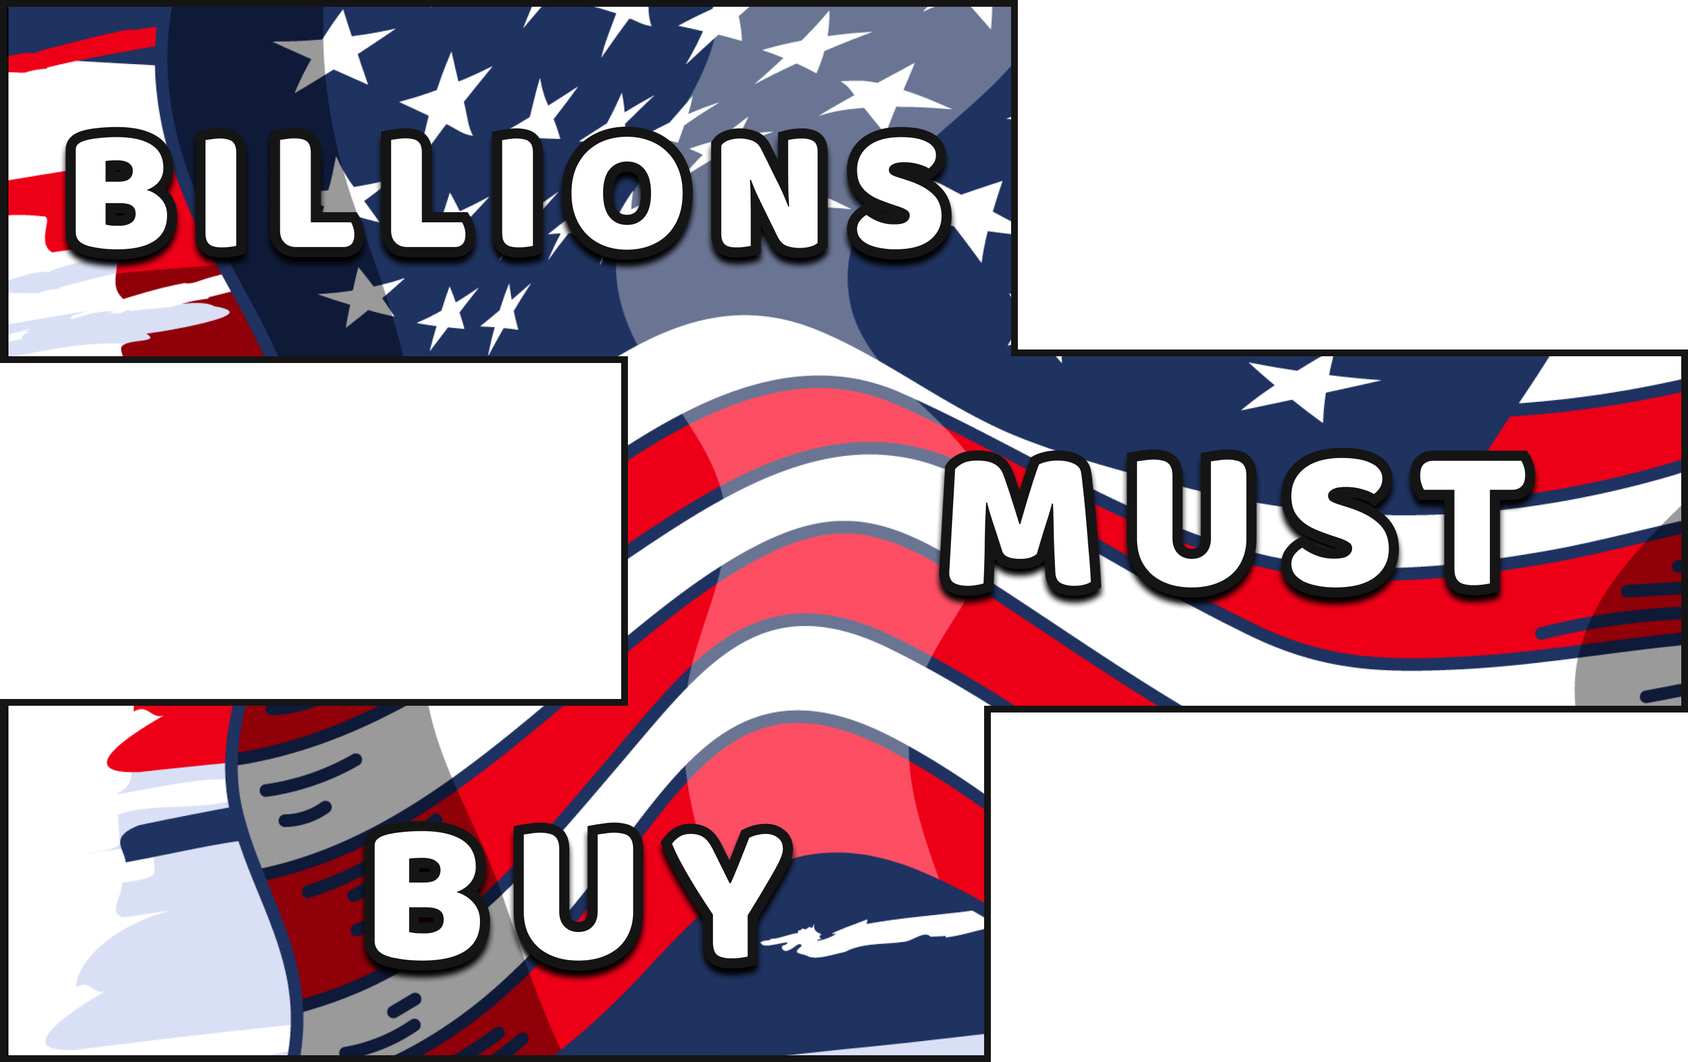
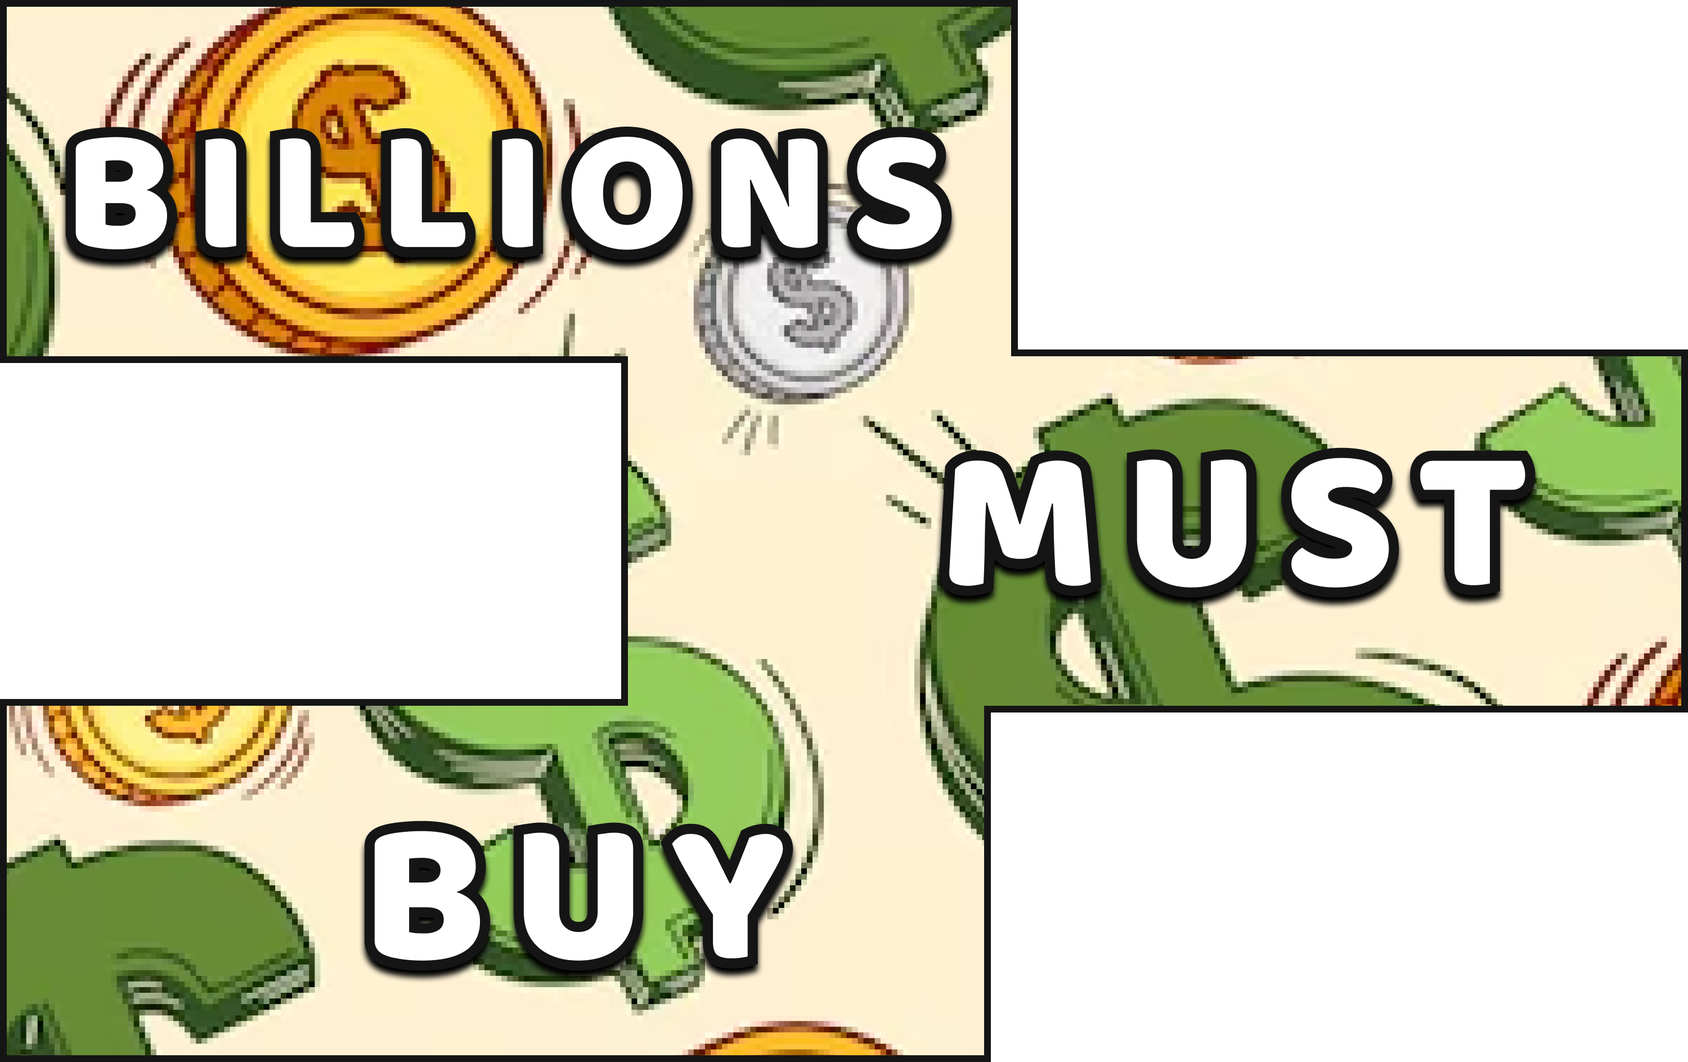
s

diff --git a/index.html b/index.html
@@ -27,7 +27,7 @@
 
             <ul class="absolute lg:left-[40%] min-[1100px]:left-[50%] lg:translate-x-[-50%] lg:h-full flex flex-col items-center lg:flex-row gap-[.85rem] lg:gap-[1.5rem] w-[90%] md:w-[320px] md:h-auto right-[2rem] py-[2rem] lg:py-0 lg:right-auto lg:w-auto bg-black lg:bg-transparent">
                 <li class="relative z-[2]"><a href="#about" class="text-[1.55rem] md:text-[1.45rem] xl:text-[24px]">About</a></li>
-                <li class="relative z-[2]"><a href="#ChudjakNomics" class="text-[1.55rem] md:text-[1.45rem] xl:text-[24px]">ChudjakNomics</a></li>
+                <li class="relative z-[2]"><a href="#Chudnomics" class="text-[1.55rem] md:text-[1.45rem] xl:text-[24px]">Chudnomics</a></li>
                 <li class="relative z-[2]"><a href="#plans" class="text-[1.55rem] md:text-[1.45rem] xl:text-[24px]">Plan</a></li>
 
                 
@@ -148,15 +148,15 @@
             </div>  
 
         </section>
-
+ 
         
      <!-- text slider -->
      <section class="relative w-full h-auto max-w-[100%] "> 
 
-        <div class="text_slide_container w-full flex justify-center items-center xl:h-auto relative"> 
+        <div class="text_slide_container no_flag z-[1] w-full flex justify-center items-center xl:h-auto relative"> 
          
              <div class="marquee_container relative  left-0 bottom-0 w-full h-auto">
-                 <div class="marquee chud bordered pb-[.7rem] marquee-left">
+                 <div class="marquee chud no_flag bordered pb-[.7rem] marquee-left">
                      <div class="marquee-el" style="animation-duration: 75s;">
                          <p>
                              <span>CHUDJAK</span>&nbsp;&nbsp;<span>CHUDJAK</span>&nbsp;&nbsp;<span>CHUDJAK</span>&nbsp;&nbsp;<span>CHUDJAK</span>&nbsp;&nbsp;<span>CHUDJAK</span>&nbsp;&nbsp;<span>CHUDJAK</span>&nbsp;&nbsp;<span>CHUDJAK</span>&nbsp;&nbsp;<span>CHUDJAK</span>&nbsp;&nbsp;<span>CHUDJAK</span>&nbsp;&nbsp;<span>CHUDJAK</span>&nbsp;&nbsp;<span>CHUDJAK</span>&nbsp;&nbsp;<span>CHUDJAK</span>&nbsp;&nbsp;<span>CHUDJAK</span>&nbsp;&nbsp;<span>CHUDJAK</span>&nbsp;&nbsp;<span>CHUDJAK</span>&nbsp;&nbsp;<span>CHUDJAK</span>&nbsp;&nbsp;<span>CHUDJAK</span>&nbsp;&nbsp;<span>CHUDJAK</span>&nbsp;&nbsp;
@@ -173,6 +173,15 @@
              </div>
      
          </div>
+
+         <div class="moving-color_container z-0 absolute left-0 top-0 w-full h-full">
+            <div class="moving-color">
+                <span></span>
+                <span></span>
+                <span></span>
+                <span></span>
+            </div>   
+        </div>
 
      </section>
 
@@ -192,7 +201,14 @@
                     <img src="./assets/images/logo.png" alt="" class="h-auto object-contain w-[80%] lg:w-[500px] xl:w-[533.57px] float_animation">
                 </div>
                 <div class="right relative w-full xl:w-[605.53px] h-[70%] titan-one-regular flex flex-col justify-between max-[1024px]:items-center">
-                    <p class="max-[1024px]:w-full max-[1024px]:px-[1rem] lg:w-[70%] xl:w-auto max-[1024px]:text-center text-[14px] md:text-[17px] xl:text-[20px]">Chudjak, also known as Poljak, is another variation of the long-standing character Wojak, also known as "Feels Guy," but actually has its origin from the meme known as Le /pol/ Face or Le Pollack. </p>
+                    <p class="max-[1024px]:w-full max-[1024px]:px-[1rem] lg:w-[70%] xl:w-auto max-[1024px]:text-center text-[14px] md:text-[17px] xl:text-[20px]">With the rise in popularity and prevalence of Wojaks since 2010, they've been circulating in a million different forms of meme.
+                        <br>
+                        <br>
+
+                        In particular, one character named Chudjak has become a staple of internet humor that's hard to avoid. Chudjak gained a prominent position on the boards of 4chan.
+                        <br>
+                        <br>
+                        And Chud is here on ETH </p>
                     <button class="about_btn hover:scale-110 duration-300 bg-[#FFEB8D] w-[80%] xl:w-[605px] h-[55px] xl:h-[75px] rounded-[10px] border-[2px] border-[#000000] uppercase tracking-wide xl:text-[22px] md:mt-[2rem] xl:mt-0 text-white ">
                         Learn more...
                     </button>
@@ -256,16 +272,16 @@
             
                 <div class="marquee_container relative  left-0 bottom-0 w-full h-auto">
                     <div class="marquee bordered pb-[.7rem] marquee-left">
-                        <div class="marquee-el" style="animation-duration: 75s;">
+                        <div class="marquee-el" style="animation-duration: 175s;">
                             <p>
-                                <span>BUY $CHUD</span>&nbsp;&nbsp;<span>BUY $CHUD</span>&nbsp;&nbsp;<span>BUY $CHUD</span>&nbsp;&nbsp;<span>BUY $CHUD</span>&nbsp;&nbsp;<span>BUY $CHUD</span>&nbsp;&nbsp;<span>BUY $CHUD</span>&nbsp;&nbsp;<span>BUY $CHUD</span>&nbsp;&nbsp;<span>BUY $CHUD</span>&nbsp;&nbsp;<span>BUY $CHUD</span>&nbsp;&nbsp;<span>BUY $CHUD</span>&nbsp;&nbsp;<span>BUY $CHUD</span>&nbsp;&nbsp;<span>BUY $CHUD</span>&nbsp;&nbsp;<span>BUY $CHUD</span>&nbsp;&nbsp;<span>BUY $CHUD</span>&nbsp;&nbsp;<span>BUY $CHUD</span>&nbsp;&nbsp;<span>BUY $CHUD</span>&nbsp;&nbsp;<span>BUY $CHUD</span>&nbsp;&nbsp;<span>BUY $CHUD</span>&nbsp;&nbsp;
-                                <span>BUY $CHUD</span>&nbsp;&nbsp;<span>BUY $CHUD</span>&nbsp;&nbsp;<span>BUY $CHUD</span>&nbsp;&nbsp;<span>BUY $CHUD</span>&nbsp;&nbsp;<span>BUY $CHUD</span>&nbsp;&nbsp;<span>BUY $CHUD</span>&nbsp;&nbsp;<span>BUY $CHUD</span>&nbsp;&nbsp;<span>BUY $CHUD</span>&nbsp;&nbsp;<span>BUY $CHUD</span>&nbsp;&nbsp;<span>BUY $CHUD</span>&nbsp;&nbsp;<span>BUY $CHUD</span>&nbsp;&nbsp;<span>BUY $CHUD</span>&nbsp;&nbsp;<span>BUY $CHUD</span>&nbsp;&nbsp;<span>BUY $CHUD</span>&nbsp;&nbsp;<span>BUY $CHUD</span>&nbsp;&nbsp;<span>BUY $CHUD</span>&nbsp;&nbsp;<span>BUY $CHUD</span>&nbsp;&nbsp;<span>BUY $CHUD</span>&nbsp;&nbsp;
+                                <span> THE WEST HAS FALLEN, BILLIONS MUST BUY $CHUD</span>&nbsp;&nbsp;<span> THE WEST HAS FALLEN, BILLIONS MUST BUY $CHUD</span>&nbsp;&nbsp;<span> THE WEST HAS FALLEN, BILLIONS MUST BUY $CHUD</span>&nbsp;&nbsp;<span> THE WEST HAS FALLEN, BILLIONS MUST BUY $CHUD</span>&nbsp;&nbsp;<span> THE WEST HAS FALLEN, BILLIONS MUST BUY $CHUD</span>&nbsp;&nbsp;<span> THE WEST HAS FALLEN, BILLIONS MUST BUY $CHUD</span>&nbsp;&nbsp;<span> THE WEST HAS FALLEN, BILLIONS MUST BUY $CHUD</span>&nbsp;&nbsp;<span> THE WEST HAS FALLEN, BILLIONS MUST BUY $CHUD</span>&nbsp;&nbsp;<span> THE WEST HAS FALLEN, BILLIONS MUST BUY $CHUD</span>&nbsp;&nbsp;<span> THE WEST HAS FALLEN, BILLIONS MUST BUY $CHUD</span>&nbsp;&nbsp;<span> THE WEST HAS FALLEN, BILLIONS MUST BUY $CHUD</span>&nbsp;&nbsp;<span> THE WEST HAS FALLEN, BILLIONS MUST BUY $CHUD</span>&nbsp;&nbsp;<span> THE WEST HAS FALLEN, BILLIONS MUST BUY $CHUD</span>&nbsp;&nbsp;<span> THE WEST HAS FALLEN, BILLIONS MUST BUY $CHUD</span>&nbsp;&nbsp;<span> THE WEST HAS FALLEN, BILLIONS MUST BUY $CHUD</span>&nbsp;&nbsp;<span> THE WEST HAS FALLEN, BILLIONS MUST BUY $CHUD</span>&nbsp;&nbsp;<span> THE WEST HAS FALLEN, BILLIONS MUST BUY $CHUD</span>&nbsp;&nbsp;<span> THE WEST HAS FALLEN, BILLIONS MUST BUY $CHUD</span>&nbsp;&nbsp;
+                                <span> THE WEST HAS FALLEN, BILLIONS MUST BUY $CHUD</span>&nbsp;&nbsp;<span> THE WEST HAS FALLEN, BILLIONS MUST BUY $CHUD</span>&nbsp;&nbsp;<span> THE WEST HAS FALLEN, BILLIONS MUST BUY $CHUD</span>&nbsp;&nbsp;<span> THE WEST HAS FALLEN, BILLIONS MUST BUY $CHUD</span>&nbsp;&nbsp;<span> THE WEST HAS FALLEN, BILLIONS MUST BUY $CHUD</span>&nbsp;&nbsp;<span> THE WEST HAS FALLEN, BILLIONS MUST BUY $CHUD</span>&nbsp;&nbsp;<span> THE WEST HAS FALLEN, BILLIONS MUST BUY $CHUD</span>&nbsp;&nbsp;<span> THE WEST HAS FALLEN, BILLIONS MUST BUY $CHUD</span>&nbsp;&nbsp;<span> THE WEST HAS FALLEN, BILLIONS MUST BUY $CHUD</span>&nbsp;&nbsp;<span> THE WEST HAS FALLEN, BILLIONS MUST BUY $CHUD</span>&nbsp;&nbsp;<span> THE WEST HAS FALLEN, BILLIONS MUST BUY $CHUD</span>&nbsp;&nbsp;<span> THE WEST HAS FALLEN, BILLIONS MUST BUY $CHUD</span>&nbsp;&nbsp;<span> THE WEST HAS FALLEN, BILLIONS MUST BUY $CHUD</span>&nbsp;&nbsp;<span> THE WEST HAS FALLEN, BILLIONS MUST BUY $CHUD</span>&nbsp;&nbsp;<span> THE WEST HAS FALLEN, BILLIONS MUST BUY $CHUD</span>&nbsp;&nbsp;<span> THE WEST HAS FALLEN, BILLIONS MUST BUY $CHUD</span>&nbsp;&nbsp;<span> THE WEST HAS FALLEN, BILLIONS MUST BUY $CHUD</span>&nbsp;&nbsp;<span> THE WEST HAS FALLEN, BILLIONS MUST BUY $CHUD</span>&nbsp;&nbsp;
                             </p>
                         </div>
-                        <div class="marquee-el" style="animation-duration: 75s;">
+                        <div class="marquee-el" style="animation-duration: 175s;">
                             <p>
-                                <span>BUY $CHUD</span>&nbsp;&nbsp;<span>BUY $CHUD</span>&nbsp;&nbsp;<span>BUY $CHUD</span>&nbsp;&nbsp;<span>BUY $CHUD</span>&nbsp;&nbsp;<span>BUY $CHUD</span>&nbsp;&nbsp;<span>BUY $CHUD</span>&nbsp;&nbsp;<span>BUY $CHUD</span>&nbsp;&nbsp;<span>BUY $CHUD</span>&nbsp;&nbsp;<span>BUY $CHUD</span>&nbsp;&nbsp;<span>BUY $CHUD</span>&nbsp;&nbsp;<span>BUY $CHUD</span>&nbsp;&nbsp;<span>BUY $CHUD</span>&nbsp;&nbsp;<span>BUY $CHUD</span>&nbsp;&nbsp;<span>BUY $CHUD</span>&nbsp;&nbsp;<span>BUY $CHUD</span>&nbsp;&nbsp;<span>BUY $CHUD</span>&nbsp;&nbsp;<span>BUY $CHUD</span>&nbsp;&nbsp;<span>BUY $CHUD</span>&nbsp;&nbsp;
-                                <span>BUY $CHUD</span>&nbsp;&nbsp;<span>BUY $CHUD</span>&nbsp;&nbsp;<span>BUY $CHUD</span>&nbsp;&nbsp;<span>BUY $CHUD</span>&nbsp;&nbsp;<span>BUY $CHUD</span>&nbsp;&nbsp;<span>BUY $CHUD</span>&nbsp;&nbsp;<span>BUY $CHUD</span>&nbsp;&nbsp;<span>BUY $CHUD</span>&nbsp;&nbsp;<span>BUY $CHUD</span>&nbsp;&nbsp;<span>BUY $CHUD</span>&nbsp;&nbsp;<span>BUY $CHUD</span>&nbsp;&nbsp;<span>BUY $CHUD</span>&nbsp;&nbsp;<span>BUY $CHUD</span>&nbsp;&nbsp;<span>BUY $CHUD</span>&nbsp;&nbsp;<span>BUY $CHUD</span>&nbsp;&nbsp;<span>BUY $CHUD</span>&nbsp;&nbsp;<span>BUY $CHUD</span>&nbsp;&nbsp;<span>BUY $CHUD</span>&nbsp;&nbsp;
+                                <span> THE WEST HAS FALLEN, BILLIONS MUST BUY $CHUD</span>&nbsp;&nbsp;<span> THE WEST HAS FALLEN, BILLIONS MUST BUY $CHUD</span>&nbsp;&nbsp;<span> THE WEST HAS FALLEN, BILLIONS MUST BUY $CHUD</span>&nbsp;&nbsp;<span> THE WEST HAS FALLEN, BILLIONS MUST BUY $CHUD</span>&nbsp;&nbsp;<span> THE WEST HAS FALLEN, BILLIONS MUST BUY $CHUD</span>&nbsp;&nbsp;<span> THE WEST HAS FALLEN, BILLIONS MUST BUY $CHUD</span>&nbsp;&nbsp;<span> THE WEST HAS FALLEN, BILLIONS MUST BUY $CHUD</span>&nbsp;&nbsp;<span> THE WEST HAS FALLEN, BILLIONS MUST BUY $CHUD</span>&nbsp;&nbsp;<span> THE WEST HAS FALLEN, BILLIONS MUST BUY $CHUD</span>&nbsp;&nbsp;<span> THE WEST HAS FALLEN, BILLIONS MUST BUY $CHUD</span>&nbsp;&nbsp;<span> THE WEST HAS FALLEN, BILLIONS MUST BUY $CHUD</span>&nbsp;&nbsp;<span> THE WEST HAS FALLEN, BILLIONS MUST BUY $CHUD</span>&nbsp;&nbsp;<span> THE WEST HAS FALLEN, BILLIONS MUST BUY $CHUD</span>&nbsp;&nbsp;<span> THE WEST HAS FALLEN, BILLIONS MUST BUY $CHUD</span>&nbsp;&nbsp;<span> THE WEST HAS FALLEN, BILLIONS MUST BUY $CHUD</span>&nbsp;&nbsp;<span> THE WEST HAS FALLEN, BILLIONS MUST BUY $CHUD</span>&nbsp;&nbsp;<span> THE WEST HAS FALLEN, BILLIONS MUST BUY $CHUD</span>&nbsp;&nbsp;<span> THE WEST HAS FALLEN, BILLIONS MUST BUY $CHUD</span>&nbsp;&nbsp;
+                                <span> THE WEST HAS FALLEN, BILLIONS MUST BUY $CHUD</span>&nbsp;&nbsp;<span> THE WEST HAS FALLEN, BILLIONS MUST BUY $CHUD</span>&nbsp;&nbsp;<span> THE WEST HAS FALLEN, BILLIONS MUST BUY $CHUD</span>&nbsp;&nbsp;<span> THE WEST HAS FALLEN, BILLIONS MUST BUY $CHUD</span>&nbsp;&nbsp;<span> THE WEST HAS FALLEN, BILLIONS MUST BUY $CHUD</span>&nbsp;&nbsp;<span> THE WEST HAS FALLEN, BILLIONS MUST BUY $CHUD</span>&nbsp;&nbsp;<span> THE WEST HAS FALLEN, BILLIONS MUST BUY $CHUD</span>&nbsp;&nbsp;<span> THE WEST HAS FALLEN, BILLIONS MUST BUY $CHUD</span>&nbsp;&nbsp;<span> THE WEST HAS FALLEN, BILLIONS MUST BUY $CHUD</span>&nbsp;&nbsp;<span> THE WEST HAS FALLEN, BILLIONS MUST BUY $CHUD</span>&nbsp;&nbsp;<span> THE WEST HAS FALLEN, BILLIONS MUST BUY $CHUD</span>&nbsp;&nbsp;<span> THE WEST HAS FALLEN, BILLIONS MUST BUY $CHUD</span>&nbsp;&nbsp;<span> THE WEST HAS FALLEN, BILLIONS MUST BUY $CHUD</span>&nbsp;&nbsp;<span> THE WEST HAS FALLEN, BILLIONS MUST BUY $CHUD</span>&nbsp;&nbsp;<span> THE WEST HAS FALLEN, BILLIONS MUST BUY $CHUD</span>&nbsp;&nbsp;<span> THE WEST HAS FALLEN, BILLIONS MUST BUY $CHUD</span>&nbsp;&nbsp;<span> THE WEST HAS FALLEN, BILLIONS MUST BUY $CHUD</span>&nbsp;&nbsp;<span> THE WEST HAS FALLEN, BILLIONS MUST BUY $CHUD</span>&nbsp;&nbsp;
                             </p>
                         </div>
                     </div>
@@ -277,7 +293,7 @@
 
 
         <!-- trumpnomics -->
-        <section id="ChudjakNomics" class="trumpnomics w-full h-[150vw] xl:h-[2200px] min-[2500px]:h-[100vw] relative max-w-[100%] overflow-hidden">
+        <section id="Chudnomics" class="trumpnomics w-full h-[150vw] xl:h-[2200px] min-[2500px]:h-[100vw] relative max-w-[100%] overflow-hidden">
 
             <!-- star container -->
             <div class="star w-full h-full absolute left-0 top-0 z-0">
@@ -321,7 +337,7 @@
 
 
         <!-- plans -->
-        <section id="plans" class="plans relative w-full h-[1200px] md:h-[1800px] xl:h-[1936px] min-[2000px]:h-[110vw] flex justify-center max-w-[100%] overflow-hidden">
+        <section id="plans" class="plans relative w-full h-[1100px] md:h-[1800px] xl:h-[1936px] min-[2000px]:h-[110vw] flex justify-center max-w-[100%] overflow-hidden">
 
             <!-- text plans -->
             <img src="./assets/images/plans_text.png" alt="plans" class="absolute h-auto object-contain w-[80%] xl:w-[686.98px] min-[2000px]:w-[1000px] top-[100px] min-[2000px]:top-[250px]">
@@ -339,90 +355,55 @@
             </div>
 
             <!-- plan container -->
-            <div class="plan step_plan_container w-full  max-w-[2000px] h-[90%] xl:h-[70%] max-h-[1500px] top-[30%] z-[99] absolute flex flex-col items-center">
+            <div class="plan step_plan_container w-full  max-w-[2000px] h-[100%] xl:h-[70%] max-h-[1500px] top-[30%] z-[99] absolute flex flex-col items-center">
 
                 <div class="plan step_plan absolute xl:left-[5%] top-0 w-[308.53px] md:w-[510px] xl:w-[817.5px] h-[102.66px] md:h-[170px] xl:h-[272px]">
                     <!-- bg -->
                     <img src="./assets/images/plan1.svg" alt="" class="w-full h-full object-cover absolute left-0 top-0">
 
                     <!-- content -->
-                    <div class="content relative flex flex-col items-center justify-center ink-free_font text-[12px] md:text-[20px] xl:text-[32px] w-full h-full font-[400] pt-[1rem] xl:pt-[2rem]">
-                         <p class="uppercase"> STEP 1 - Thousands Must Buy</p>
-                        <div class="flex items-center gap-[.85rem] w-[60%]">
-                            <span class="w-[5px] h-[5px] xl:w-[10px] xl:h-[10px] bg-black rounded-full"></span>CCreate $CHUD brand
-                        </div>
-                        <div class="flex items-center gap-[.85rem] w-[60%]">
-                            <span class="w-[5px] h-[5px] xl:w-[10px] xl:h-[10px] bg-black rounded-full"></span>Launch $CHUD website
-                        </div>
-                        <div class="flex items-center gap-[.85rem] w-[60%]">
-                            <span class="w-[5px] h-[5px] xl:w-[10px] xl:h-[10px] bg-black rounded-full"></span>Launch $CHUD coin
-                        </div>
-                
+                    <div class="content  relative flex flex-col items-center justify-center ink-free_font text-[18px] text-left md:text-[20px] xl:text-[42px] w-full h-full font-[400] pl-[1.5rem] xl:pl-[2rem]">
+                        <p class=" text-center text-[30px] xl:text-[50px] xl:w-[70%]"> Phase 1</p>
+                        <div class="flex items-center uppercase justify-center w-full xl:w-[70%] text-center">
+                            thousands musk buy
+                        </div> 
                     </div>
 
                 </div>
 
-                <div class="plan step_plan absolute xl:right-[5%] top-[18%] xl:top-[30%] w-[368.53px] md:w-[610px] xl:w-[1007px] h-[85.79px] md:h-[150px] xl:h-[247px]">
+                <div class="plan step_plan absolute xl:right-[5%] top-[16%] xl:top-[30%] w-[368.53px] md:w-[610px] xl:w-[1007px] h-[85.79px] md:h-[150px] xl:h-[247px]">
                     <!-- bg -->
                     <img src="./assets/images/plan2.svg" alt="" class="w-full h-full object-cover absolute left-0 top-0">
 
                     <!-- content -->
-                    <div class="content  relative flex flex-col items-center justify-center ink-free_font text-[12px] text-left md:text-[20px] xl:text-[32px] w-full h-full font-[400]  xl:pl-[2rem]">
-                        <p class="w-[90%] uppercase">STEP 2 - Millions Must Buy</p>
-                        <div class="flex items-center gap-[.85rem] w-[90%]">
-                            <span class="w-[5px] h-[5px] xl:w-[10px] xl:h-[10px] bg-black rounded-full"></span>Lorem ipsum dolor sit amet consectetur, adipisicing
-                        </div>
-                        <div class="flex items-center gap-[.85rem] w-[90%]">
-                            <span class="w-[5px] h-[5px] xl:w-[10px] xl:h-[10px] bg-black rounded-full"></span>Lorem ipsum dolor sit amet consectetur, adipisicing
-                        </div>
-                        <div class="flex items-center gap-[.85rem] w-[90%]">
-                            <span class="w-[5px] h-[5px] xl:w-[10px] xl:h-[10px] bg-black rounded-full"></span>Lorem ipsum dolor sit amet consectetur, adipisicing
-                        </div>
-                
+                    <div class="content  relative flex flex-col items-center justify-center ink-free_font text-[18px] text-left md:text-[20px] xl:text-[42px] w-full h-full font-[400] pl-[1.5rem] xl:pl-[2rem]">
+                        <p class=" text-center text-[30px] xl:text-[50px] xl:w-[70%]"> Phase 2</p>
+                        <div class="flex items-center uppercase justify-center w-full xl:w-[70%] text-center">
+                            millions musk buy
+                        </div> 
                     </div>
 
                 </div>
 
-                <div class="plan step_plan absolute xl:left-[5%] top-[37%] xl:top-[55%] w-[388.53px] md:w-[590px] xl:w-[1003px] h-[115.79px] md:h-[180px] xl:h-[305px]">
+                <div class="plan step_plan absolute xl:left-[5%] top-[38%] xl:top-[55%] w-[388.53px] md:w-[590px] xl:w-[1003px] h-[115.79px] md:h-[180px] xl:h-[305px]">
                     <!-- bg -->
                     <img src="./assets/images/plan3.svg" alt="" class="w-full h-full object-cover absolute left-0 top-0">
 
                     <!-- content -->
-                    <div class="content  relative flex flex-col items-center justify-center ink-free_font text-[12px] text-left md:text-[20px] xl:text-[32px] w-full h-full font-[400] pl-[1.5rem] xl:pl-[2rem]">
-                        <p class="w-full xl:w-[90%] uppercase">STEP 3 - Billions Must Buy</p>
-                        <div class="flex items-center gap-[.85rem] w-full xl:w-[90%]">
-                            <span class="w-[5px] h-[5px] xl:w-[10px] xl:h-[10px] bg-black rounded-full"></span>Lorem ipsum dolor sit amet consectetur, adipisicing
-                        </div>
-                        <div class="flex items-center gap-[.85rem] w-full xl:w-[90%]">
-                            <span class="w-[5px] h-[5px] xl:w-[10px] xl:h-[10px] bg-black rounded-full"></span>Lorem ipsum dolor sit amet consectetur, adipisicing
-                        </div>
-                        <div class="flex items-center gap-[.85rem] w-full xl:w-[90%]">
-                            <span class="w-[5px] h-[5px] xl:w-[10px] xl:h-[10px] bg-black rounded-full"></span>Lorem ipsum dolor sit amet consectetur, adipisicing
-                        </div>
-                
-                    </div>
-
-                </div>
-
-                <div class="plan step_plan absolute xl:right-[5%] top-[60%] xl:top-[85%] w-[348.53px] md:w-[500px] xl:w-[794.5px] h-[85.79px] md:h-[120px] xl:h-[196px]">
-                    <!-- bg -->
-                    <img src="./assets/images/plan4.svg" alt="" class="w-full h-full object-cover absolute left-0 top-0">
-
-                    <!-- content -->
-                    <div class="content  relative flex flex-col items-center justify-center ink-free_font text-[12px] text-left md:text-[20px] xl:text-[32px] w-full h-full font-[400]  pl-[2rem]">
-                        <p class="w-[90%] uppercase">STEP 4 - WEALTHY MUST BUY</p>
-                        <div class="flex items-center gap-[.85rem] w-[90%]">
-                            <span class="w-[5px] h-[5px] xl:w-[10px] xl:h-[10px] bg-black rounded-full"></span>To be announced
+                    <div class="content  relative flex flex-col items-center justify-center ink-free_font text-[18px] text-left md:text-[20px] xl:text-[42px] w-full h-full font-[400] pl-[1.5rem] xl:pl-[2rem]">
+                        <p class=" text-center text-[30px] xl:text-[50px] xl:w-[70%]"> Phase 3</p>
+                        <div class="flex items-center uppercase justify-center w-full xl:w-[70%] text-center">
+                            Billion musk buy
                         </div> 
-                
                     </div>
 
                 </div>
+ 
 
                 <!-- bg image -->
                 <div class="image_plans z-0 absolute w-full h-full left-0 top-0">
                     <!-- img 1 -->
-                    <img src="./assets/images/image_plan-1.png" alt="plan" class="image_plan1 h-auto object-contain w-[178px] xl:w-[528px] absolute right-[-5%] top-[3%] xl:top-[-6%]">
+                    <img src="./assets/images/image_plan-1.png" alt="plan" class="image_plan1 h-auto object-contain w-[178px] xl:w-[528px] absolute right-[-5%] top-[4%] xl:top-[-6%]">
                     <!-- img 2 -->
                     <img src="./assets/images/image_plan-2.png" alt="plan " class="image_plan2 h-auto object-contain w-[198px] xl:w-[521px] absolute xl:left-[-10%] left-[50%] top-[23%] xl:top-[22%]">
                     <!-- img 3 -->
@@ -476,7 +457,7 @@
 
             <!-- buy button -->
             <div class="box_animation absolute bottom-[45px] md:bottom-[100px] w-[90%] md:w-[388px] h-[30.6px] md:h-[60.05px] xl:w-[1302px] xl:h-[120px]  justify-center items-center overflow-hidden flex">
-                <p class="relative duration-300 text-[#FFFFFF] z-[10] text-[16.73px] md:text-[24px] xl:text-[64px] pl-[.5rem] pt-[.55rem]">BUY $CHUD</p> 
+                <p class="relative duration-300 text-[#FFFFFF] z-[10] text-[16.73px] md:text-[24px] xl:text-[64px] pl-[.5rem] pt-[.55rem]">  BUY $CHUD</p> 
                 <div class="moving-color_container">
                     <div class="moving-color">
                         <span></span>

diff --git a/assets/css/style.css b/assets/css/style.css
@@ -123,7 +123,7 @@ body{
     border-bottom: 3px solid rgba(0, 0, 0, 0.651);
 }
 
-.marquee::before{
+.marquee:not(.no_flag)::before{
     content: "";
     position: absolute;
     left: 0;
